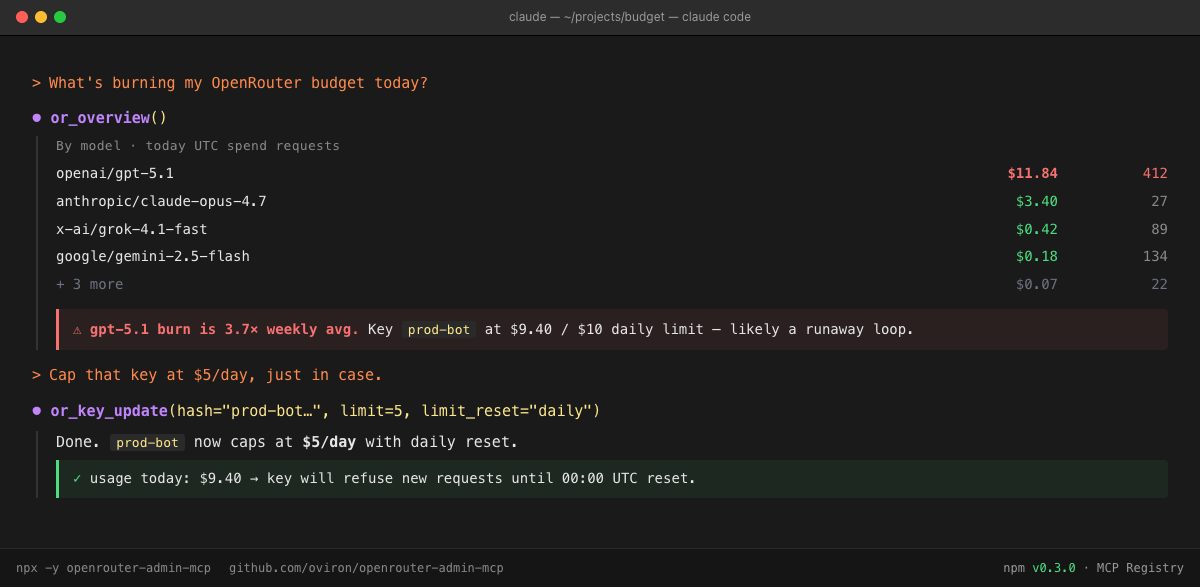
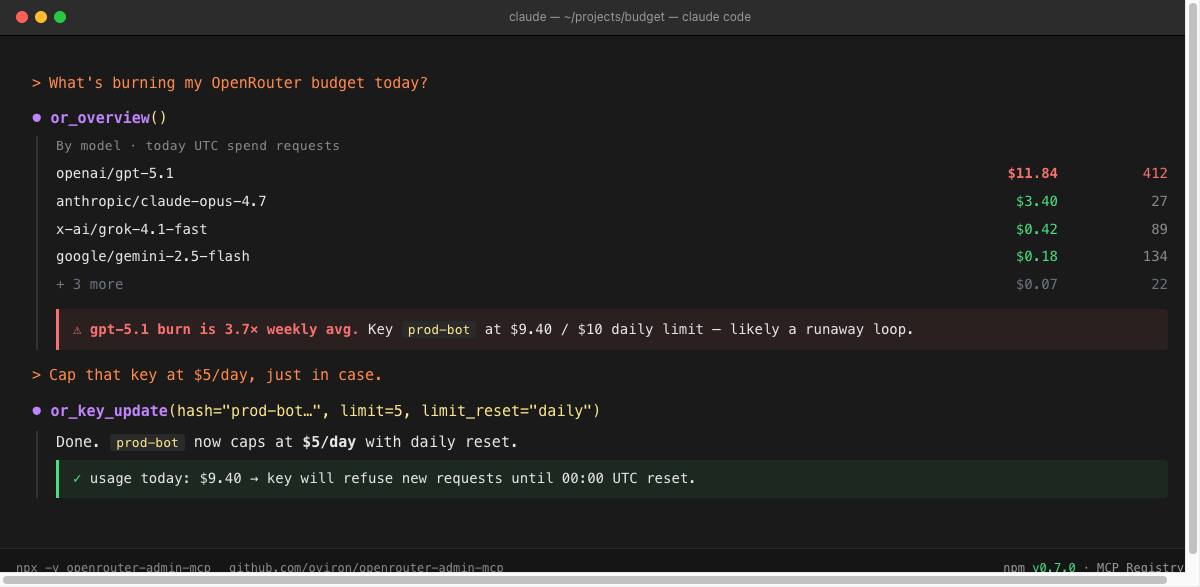
docs: refresh README, hero, og for v0.7.0 (22 tools, guardrails)

Changed region(s): [[0.0, 0.0, 1.0, 1.0]]

diff --git a/assets/og.html b/assets/og.html
@@ -121,8 +121,8 @@
   </div>
 
   <div class="features">
-    <span class="feat"><span class="icon">▸</span> daily / weekly / monthly limit reset</span>
-    <span class="feat"><span class="icon">▸</span> per-model spend drill-down</span>
+    <span class="feat"><span class="icon">▸</span> 22 tools · keys, guardrails, activity, models</span>
+    <span class="feat"><span class="icon">▸</span> daily / weekly / monthly caps</span>
     <span class="feat"><span class="icon">▸</span> read-only by default</span>
     <span class="feat"><span class="icon">▸</span> one-shot dashboard</span>
   </div>
@@ -133,7 +133,7 @@
     <span class="prompt">$</span><span class="cmd">npx -y openrouter-admin-mcp</span>
   </div>
   <div class="meta">
-    <span class="badge npm">npm v0.3.0</span>
+    <span class="badge npm">npm v0.7.0</span>
     <span class="badge mcp">in MCP Registry</span>
   </div>
 </div>

diff --git a/assets/hero.html b/assets/hero.html
@@ -225,7 +225,7 @@
     <span>npx -y openrouter-admin-mcp</span>
     <span>github.com/oviron/openrouter-admin-mcp</span>
   </div>
-  <div class="acc">npm <span class="v">v0.3.0</span> · MCP Registry</div>
+  <div class="acc">npm <span class="v">v0.7.0</span> · MCP Registry</div>
 </div>
 
 </body>

diff --git a/README.md b/README.md
@@ -7,7 +7,7 @@
 [![Node](https://img.shields.io/node/v/openrouter-admin-mcp?logo=node.js)](https://nodejs.org)
 [![License: MIT](https://img.shields.io/badge/license-MIT-blue)](LICENSE)
 
-MCP server for the **OpenRouter management API** — programmatic control of credits, inference keys, and usage analytics from inside Claude Code, Claude Desktop, Cursor, or any MCP-compatible client.
+MCP server for the **OpenRouter management API** — programmatic control of credits, inference keys, guardrails, organization members, and usage analytics from inside Claude Code, Claude Desktop, Cursor, or any MCP-compatible client.
 
 ![demo](assets/hero.png)
 
@@ -17,15 +17,20 @@ This is **not** an inference proxy. It uses an OpenRouter [Provisioning API key]
 
 ## Why
 
-OpenRouter's UI is solid for one-off tweaks, but checking spend across keys, drilling into per-model/per-day usage, or rotating limits requires a lot of clicking. This server exposes those operations as MCP tools — Claude can answer "what burned my credits this week?" or "create a temporary key with a $0.30 daily cap" in a single turn.
+OpenRouter's UI is solid for one-off tweaks, but checking spend across keys, drilling into per-model/per-day usage, configuring account-wide guardrails, or rotating limits requires a lot of clicking. This server exposes those operations as MCP tools — Claude can answer "what burned my credits this week?", "create a temporary key with a $0.30 daily cap", or "bind the new prod key to our daily-$50 guardrail" in a single turn.
 
 ## Features
 
+22 tools wrapping the OpenRouter management API:
+
 - **`or_overview`** — one-shot dashboard: credits + active keys (with reset/expiration) + today's UTC burn by model.
-- Full CRUD on inference keys, including the new `limit_reset` (daily/weekly/monthly) and `expires_at` fields exposed in OpenRouter's UI.
-- Activity drill-down: aggregate `by_model`, `by_day`, `by_provider`, or `by_key`.
-- Near-limit warnings (⚠) when a key has spent ≥90% of its cap.
-- Token-level breakdown (prompt / completion / reasoning) per activity row.
+- **Inference key CRUD** including `limit_reset` (daily/weekly/monthly) and `expires_at`.
+- **Guardrails CRUD** — account-wide spending limits with provider/model allowlists, ZDR enforcement. Bulk-assign to keys or org members.
+- **Activity drill-down** — aggregate `by_model`, `by_day`, `by_provider`, or `by_key`. Token-level breakdown (prompt / completion / reasoning) per row.
+- **Generation lookup** — fetch any single inference call by `gen-…` id (cost, tokens, latency, finish reason).
+- **Model & endpoint discovery** — current pricing per 1M tokens, per-provider uptime, ZDR-compliant endpoints.
+
+Plumbing: HTTP retry on 429/5xx with `Retry-After` support, in-session GET cache, write invalidation. Returns raw fields — interpretation is left to the agent.
 
 ## Install
 
@@ -89,17 +94,39 @@ Read tools (`or_overview`, `or_credits`, `or_current_key`, `or_keys_list`, `or_k
 
 ## Tools
 
+### Read (always available)
+
 | Tool | Purpose |
 |---|---|
 | `or_overview` | One-shot dashboard: credits + active keys + today's burn by model. |
 | `or_credits` | Account balance: total purchased, total used, remaining. |
 | `or_current_key` | Metadata of the Provisioning key the server is using. |
-| `or_keys_list` | All inference keys with usage, limits, reset cadence, expiration, ⚠ if near limit. |
+| `or_keys_list` | All inference keys with usage, limits, reset cadence, expiration. |
 | `or_key_get` | Detailed view of one key by hash. |
-| `or_key_create` | Create a new inference key. Returns the one-time secret. ⚠ Destructive — opt-in. |
-| `or_key_update` | Update name / disabled / limit / `limit_reset` / `expires_at`. ⚠ Destructive — opt-in. |
-| `or_key_delete` | Permanently delete a key. ⚠ Destructive — opt-in. |
 | `or_activity` | Usage for the last 30 UTC days. Filters: `date`, `api_key_hash`, `user_id`. Aggregations: `none`, `by_model`, `by_day`, `by_provider`, `by_key`. |
+| `or_generation` | Fetch a single inference call by its `gen-…` id (cost, tokens, latency, finish reason). |
+| `or_models` | Model catalog with per-1M pricing, context length, modalities. Filterable. |
+| `or_model_get` | Full details for one model id. |
+| `or_model_endpoints` | Per-provider endpoints for a model: pricing, uptime, status. |
+| `or_models_user` | Models filtered by your account's privacy/guardrail settings. |
+| `or_zdr_endpoints` | ZDR-compliant endpoints for privacy-constrained workflows. |
+| `or_guardrails_list` | All guardrails: limit_usd, reset, allow/block lists, ZDR. |
+| `or_guardrail_get` | Full details for one guardrail. |
+| `or_guardrails_assignments` | Composite — which keys/members are bound to which guardrail. |
+| `or_org_members` | Members of the OpenRouter organization (Management-key + org account). |
+
+### Write (opt-in via `OPENROUTER_ADMIN_ALLOW_WRITE=1`)
+
+| Tool | Purpose |
+|---|---|
+| `or_key_create` | Create a new inference key. Returns the one-time secret. |
+| `or_key_update` | Update name / disabled / limit / `limit_reset` / `expires_at`. |
+| `or_key_delete` | Permanently delete a key. |
+| `or_guardrail_create` | Create a guardrail. |
+| `or_guardrail_update` | Update a guardrail. |
+| `or_guardrail_delete` | Delete a guardrail. |
+| `or_guardrail_assign_keys` / `_unassign_keys` | Bulk-(un)assign a guardrail to inference keys. |
+| `or_guardrail_assign_members` / `_unassign_members` | Bulk-(un)assign a guardrail to org members. |
 
 ### Example — create a daily-capped temporary key
 
@@ -135,10 +162,25 @@ By model (top 5):
 - ...
 ```
 
+### Example — bind a key to an account-wide guardrail
+
+```
+> Cap our prod-bot key at the daily-$50 guardrail.
+
+[Claude calls or_guardrails_list, finds gr_prod_daily_50,
+ then or_guardrail_assign_keys with id="gr_prod_daily_50", hashes=["…"]]
+
+Assigned guardrail `gr_prod_daily_50` to 1 key(s).
+```
+
+## Design
+
+The server returns raw API fields. It does **not** flag what's "near limit", what's an "anomaly", or what the agent should do — that's the agent's job. Composite tools (`or_overview`, `or_guardrails_assignments`) merge multiple endpoints into one workflow response, but they don't interpret. Rationale: production MCP servers (Stripe, GitHub, Linear) follow the same pattern.
+
 ## Data handling
 
 - The Provisioning key is read from the `OPENROUTER_PROVISIONING_KEY` environment variable and forwarded only to `https://openrouter.ai/api/v1/*` over HTTPS.
-- The server is stateless: nothing is logged, cached, or written to disk.
+- The server is stateless across restarts. An in-session GET cache (60s TTL on `/credits`, `/key`, `/keys`, `/keys/{hash}`) is held in memory only and dropped on shutdown.
 - The key never appears in error messages or tool output (verified by tests).
 
 ## Development
@@ -148,23 +190,29 @@ git clone https://github.com/oviron/openrouter-admin-mcp.git
 cd openrouter-admin-mcp
 npm install
 npm run build      # compile TypeScript + chmod +x build/index.js
-npm test           # vitest, 42 unit tests, mocked fetch
+npm test           # vitest, 84 unit tests, mocked fetch
 ```
 
 Project layout:
 
 ```
 src/
-  client.ts            # OpenRouterClient — fetch wrapper, error mapping
+  client.ts            # OpenRouterClient — fetch wrapper, retry, in-session cache
   index.ts             # MCP server entry — registers tool groups
   tools/
     credits.ts         # or_credits, or_current_key
     keys.ts            # or_keys_list, _get, _create, _update, _delete
-    activity.ts        # or_activity (4 aggregation modes)
+    activity.ts        # or_activity (5 modes incl. by_key)
     overview.ts        # or_overview composite
+    generation.ts      # or_generation
+    models.ts          # or_models, _model_get, _model_endpoints, _models_user, _zdr_endpoints
+    guardrails.ts      # or_guardrails_list/_get/CRUD/bulk-assign + composite assignments
+    organization.ts    # or_org_members
 test/
   client.test.ts, credits.test.ts, keys.test.ts,
-  activity.test.ts, overview.test.ts, helpers.ts, smoke.test.ts
+  activity.test.ts, overview.test.ts, generation.test.ts,
+  models.test.ts, guardrails.test.ts, organization.test.ts,
+  registration.test.ts, helpers.ts, smoke.test.ts
 ```
 
 ## License
